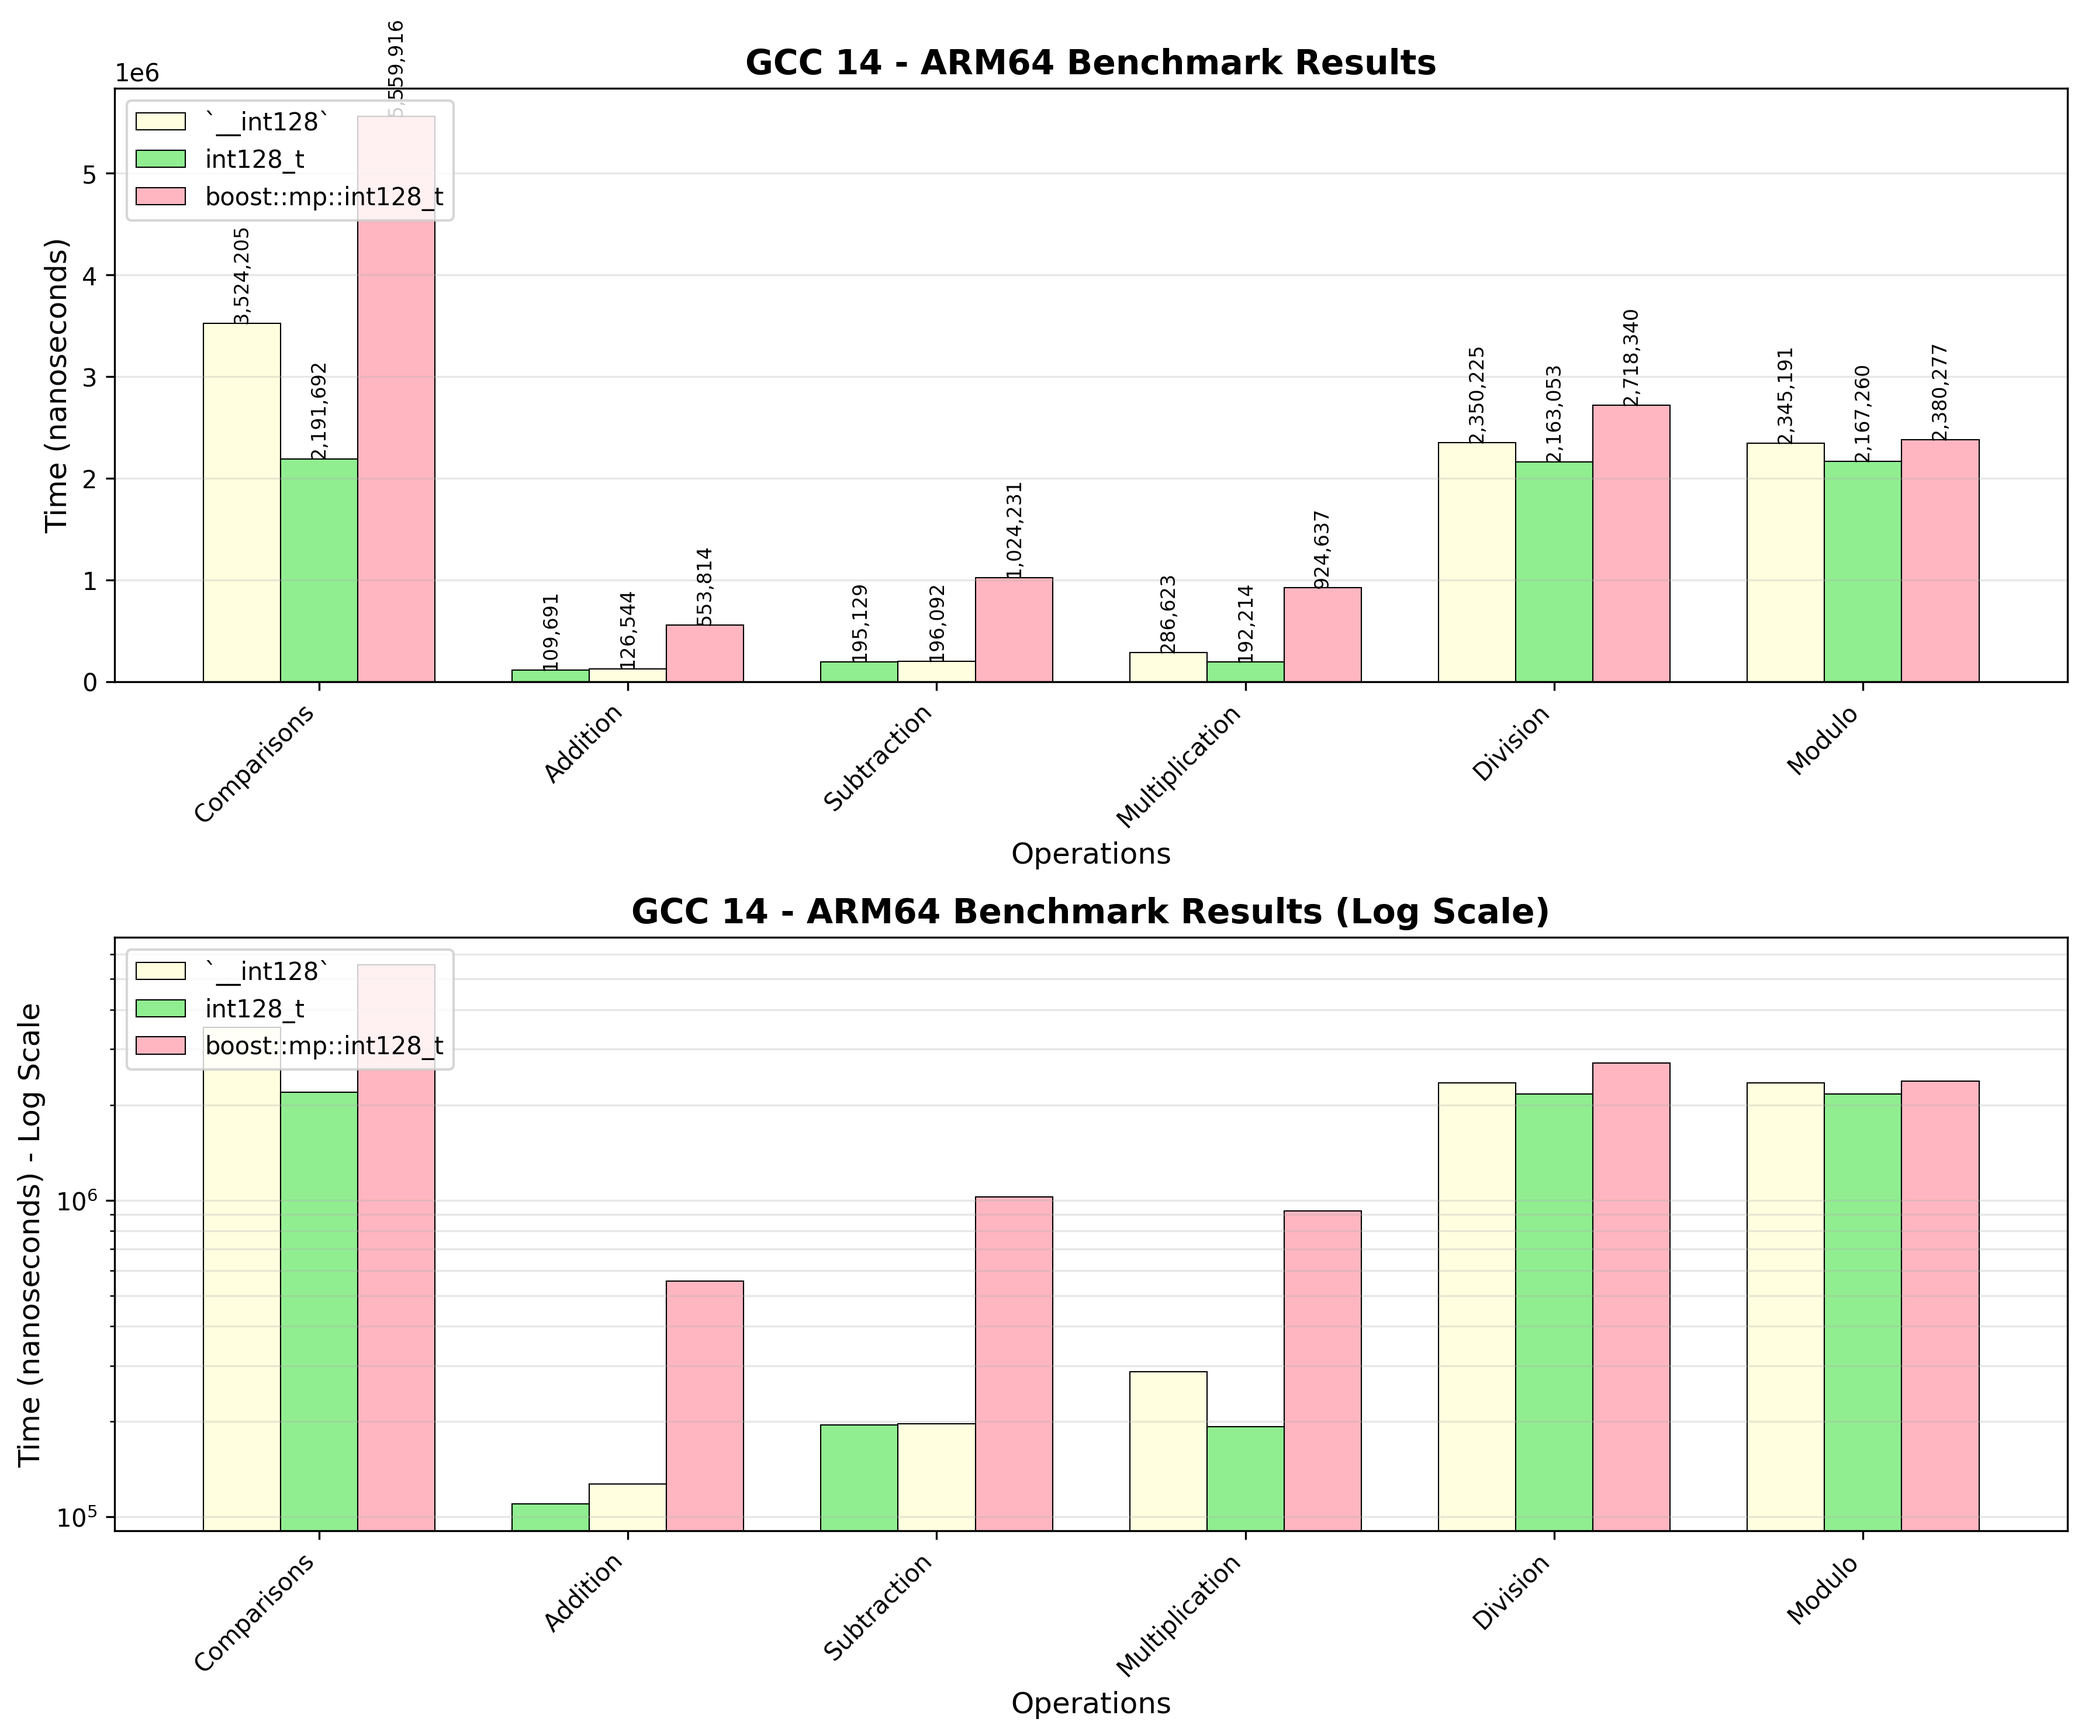
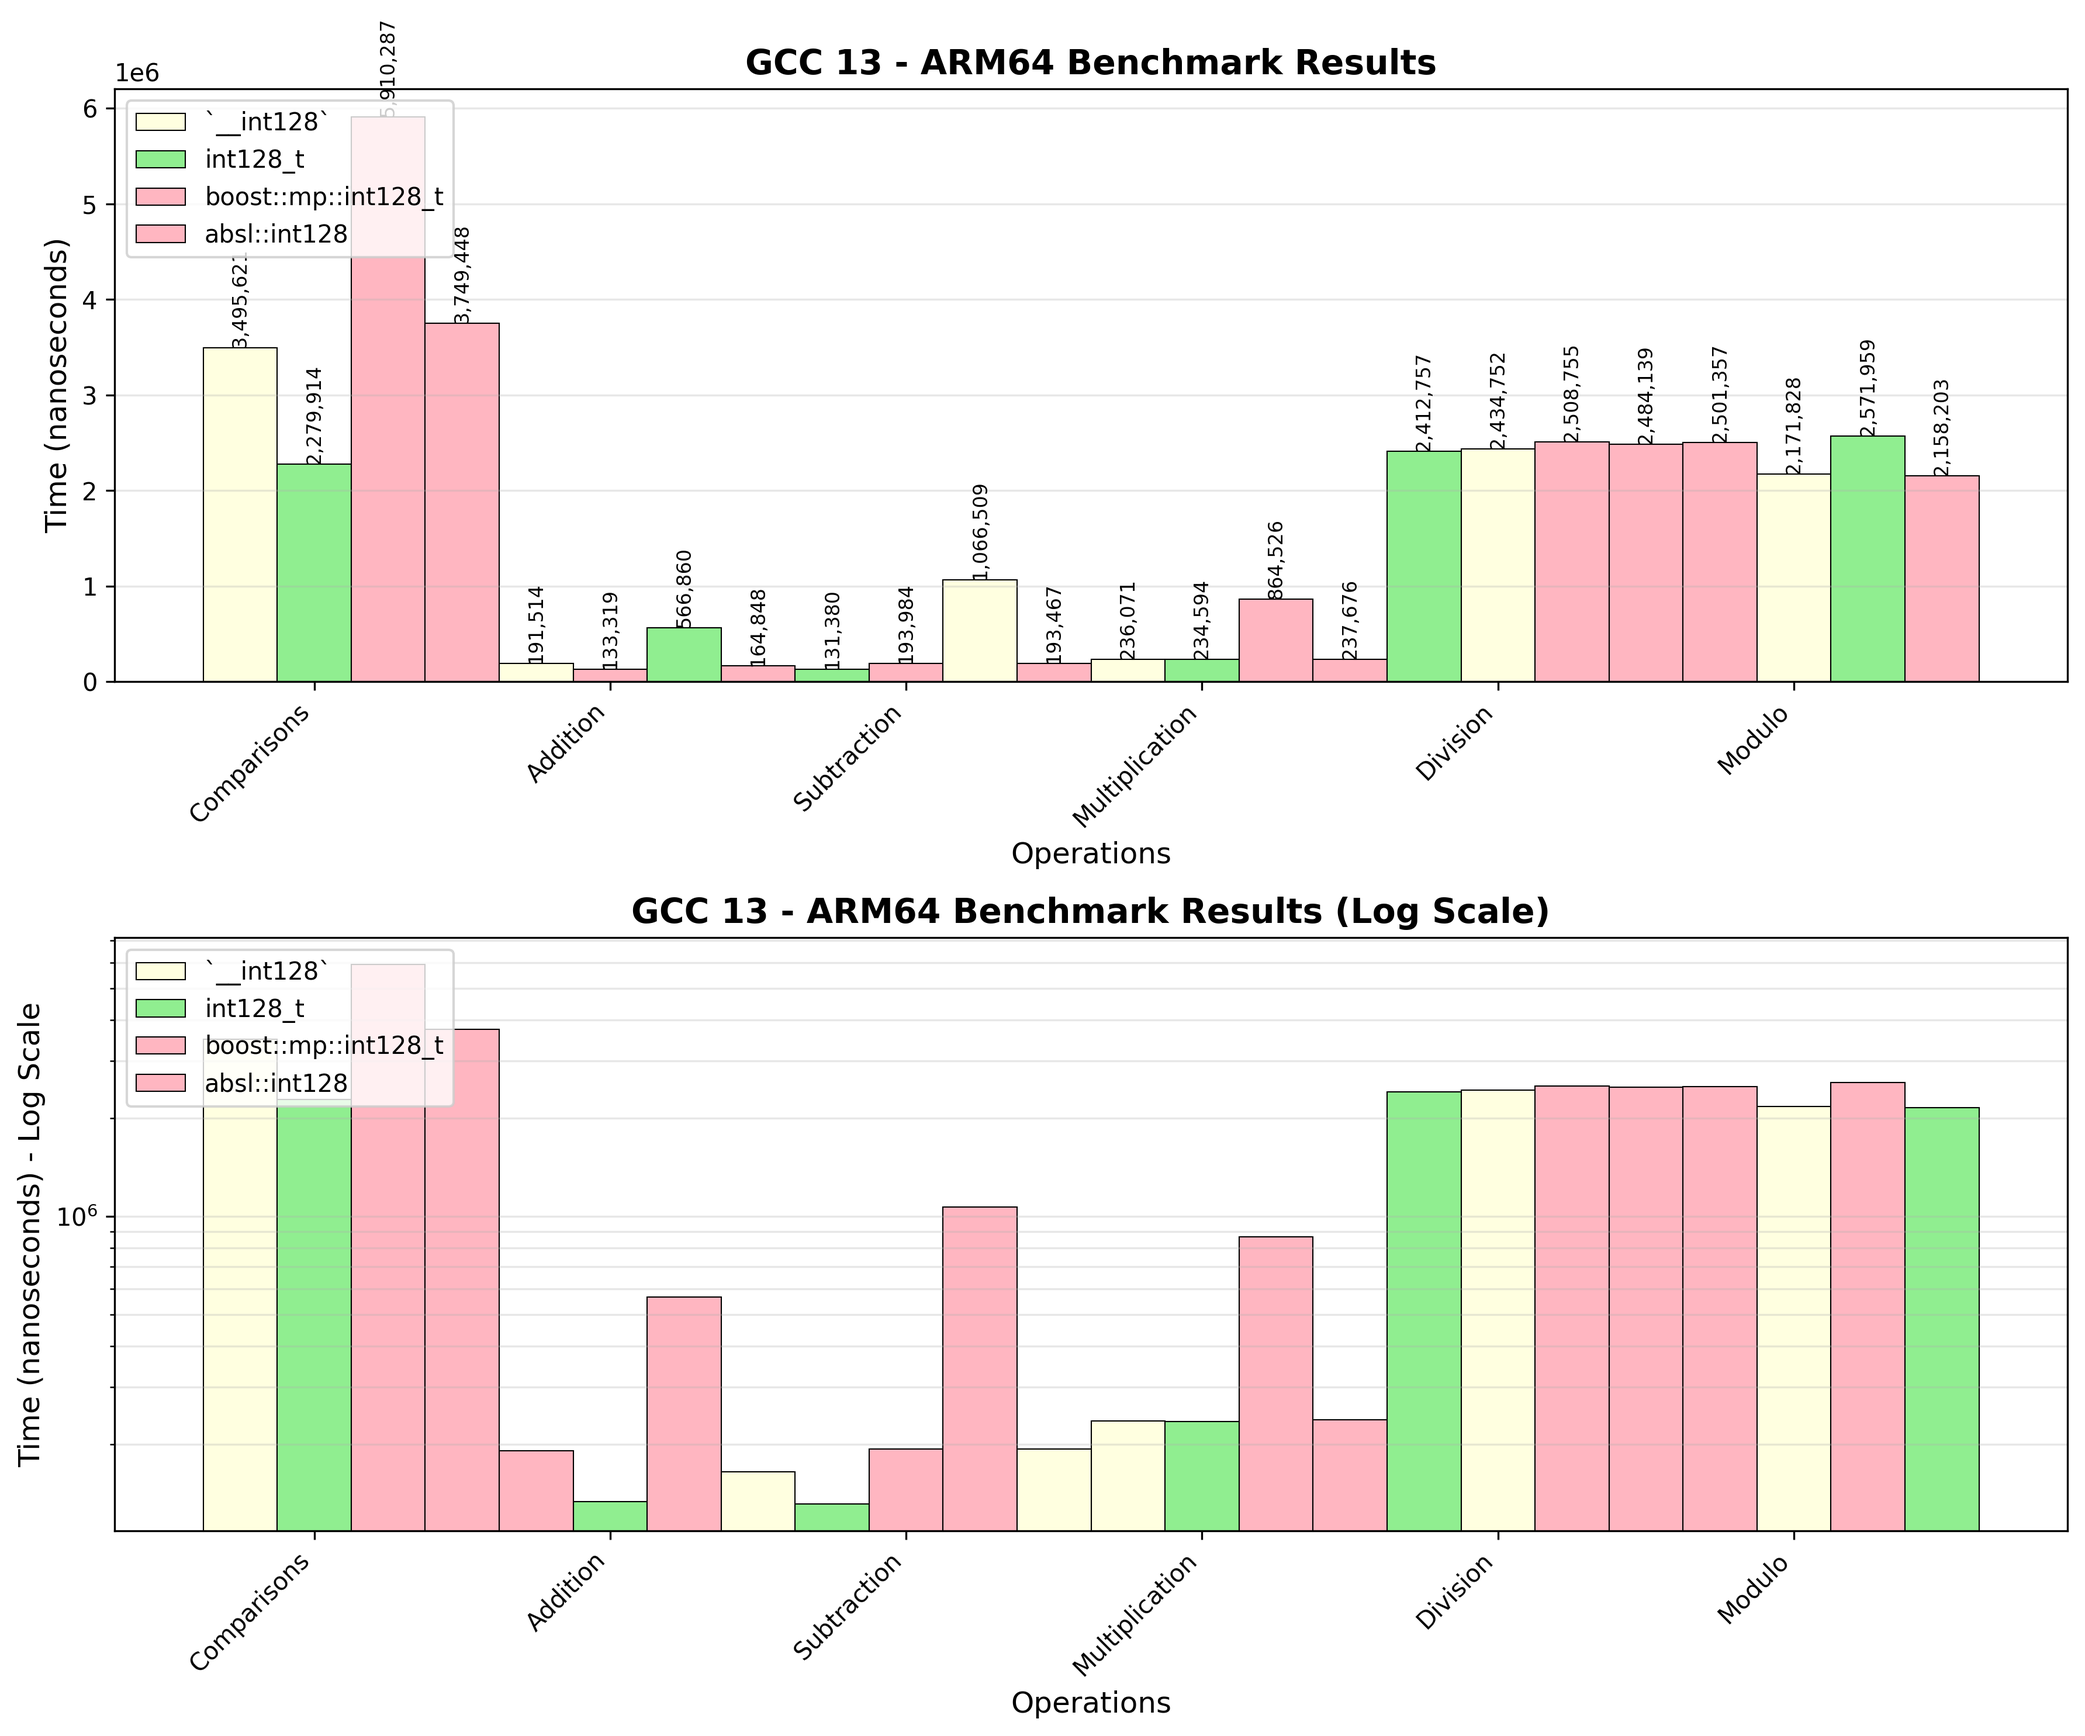
Update linux ARM64 performance data and graphs

diff --git a/doc/signed_plots.py b/doc/signed_plots.py
@@ -1,7 +1,7 @@
 import matplotlib.pyplot as plt
 import numpy as np
 import pandas as pd
-
+"""
 # Linux x64
 data = {
     'Operation': ['Comparisons', 'Addition', 'Subtraction', 'Multiplication', 'Division', 'Modulo'],
@@ -10,16 +10,17 @@ data = {
     'boost::mp::int128_t': [2210502, 283528, 668953, 312723, 1320695, 1287093],
     'absl::int128': [741269, 92323, 90394, 89558, 1200439, 1293439],
 }
-
 """
+
 # Linux ARM64
 data = {
     'Operation': ['Comparisons', 'Addition', 'Subtraction', 'Multiplication', 'Division', 'Modulo'],
-    '`__int128`': [3524205, 109691, 195129, 286623, 2350225, 2345191],
-    'int128_t': [2191692, 126544, 196092, 192214, 2163053, 2167260],
-    'boost::mp::int128_t': [5559916, 553814, 1024231, 924637, 2718340, 2380277]
+    '`__int128`': [3495621, 191514, 131380, 236071, 2412757, 2501357],
+    'int128_t': [2279914, 133319, 193984, 234594, 2434752, 2171828],
+    'boost::mp::int128_t': [5910287, 566860, 1066509, 864526, 2508755, 2571959],
+    'absl::int128': [3749448, 164848, 193467, 237676, 2484139, 2158203]
 }
-"""
+
 """
 # Linux s390x
 data = {
@@ -121,7 +122,7 @@ for i, (idx, row) in enumerate(df.iterrows()):
 
 ax1.set_xlabel('Operations', fontsize=12)
 ax1.set_ylabel('Time (nanoseconds)', fontsize=12)
-ax1.set_title('GCC 14 - x64 Benchmark Results', fontsize=14, fontweight='bold')
+ax1.set_title('GCC 13 - ARM64 Benchmark Results', fontsize=14, fontweight='bold')
 ax1.set_xticks(x)
 ax1.set_xticklabels(operations, rotation=45, ha='right')
 ax1.legend(loc='upper left')
@@ -150,7 +151,7 @@ for i, impl in enumerate(implementations):
 
 ax2.set_xlabel('Operations', fontsize=12)
 ax2.set_ylabel('Time (nanoseconds) - Log Scale', fontsize=12)
-ax2.set_title('GCC 14 - x64 Benchmark Results (Log Scale)', fontsize=14, fontweight='bold')
+ax2.set_title('GCC 13 - ARM64 Benchmark Results (Log Scale)', fontsize=14, fontweight='bold')
 ax2.set_yscale('log')
 ax2.set_xticks(x)
 ax2.set_xticklabels(operations, rotation=45, ha='right')
@@ -158,7 +159,7 @@ ax2.legend(loc='upper left')
 ax2.grid(axis='y', alpha=0.3, which='both')
 
 plt.tight_layout()
-plt.savefig('x64_benchmarks.png', dpi=300, bbox_inches='tight')
+plt.savefig('arm64_benchmarks.png', dpi=300, bbox_inches='tight')
 plt.show()
 
 # Create a normalized performance chart
@@ -187,7 +188,7 @@ ax3.axhline(y=1.0, color='red', linestyle='--', alpha=0.5, label='`__int128` bas
 
 ax3.set_xlabel('Operations', fontsize=12)
 ax3.set_ylabel('Relative Performance (vs __int128)', fontsize=12)
-ax3.set_title('Relative Performance Comparison - x64', fontsize=14, fontweight='bold')
+ax3.set_title('Relative Performance Comparison - ARM64', fontsize=14, fontweight='bold')
 ax3.set_xticks(x)
 ax3.set_xticklabels(operations, rotation=45, ha='right')
 ax3.legend()
@@ -198,7 +199,7 @@ ax3.text(0.02, 0.98, 'Lower is better', transform=ax3.transAxes,
          fontsize=10, verticalalignment='top', style='italic')
 
 plt.tight_layout()
-plt.savefig('x64_relative_performance.png', dpi=300, bbox_inches='tight')
+plt.savefig('arm64_relative_performance.png', dpi=300, bbox_inches='tight')
 plt.show()
 
 # Generate summary statistics
